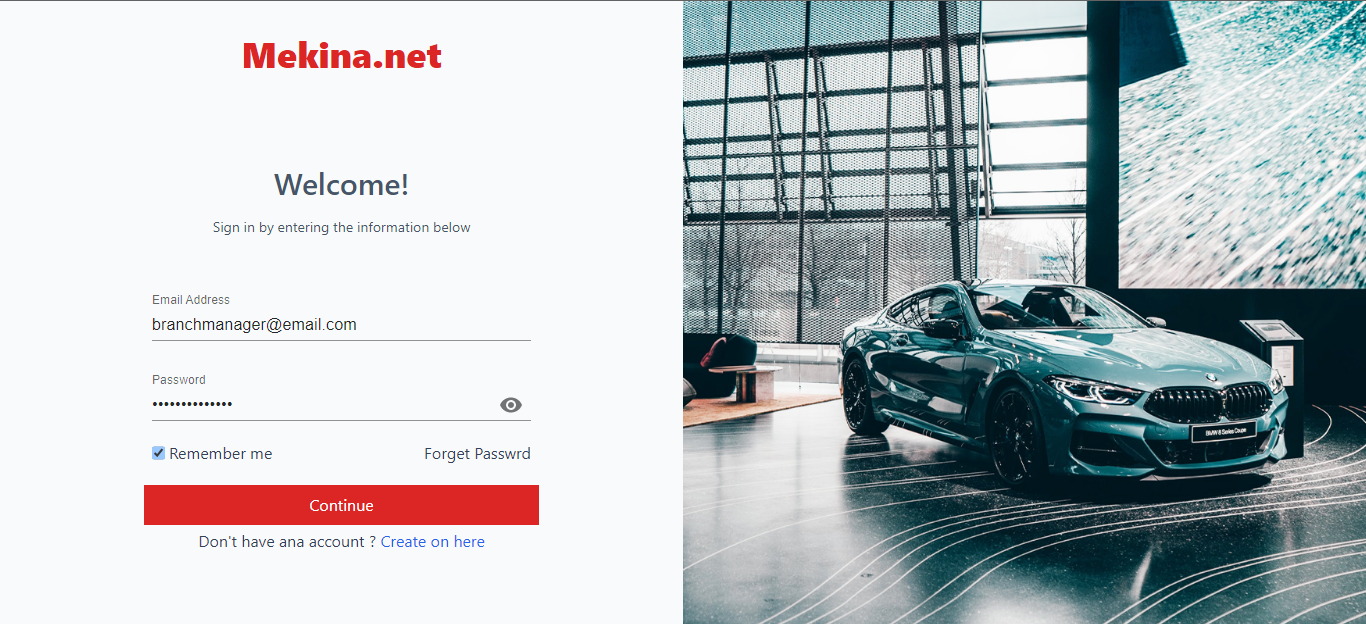
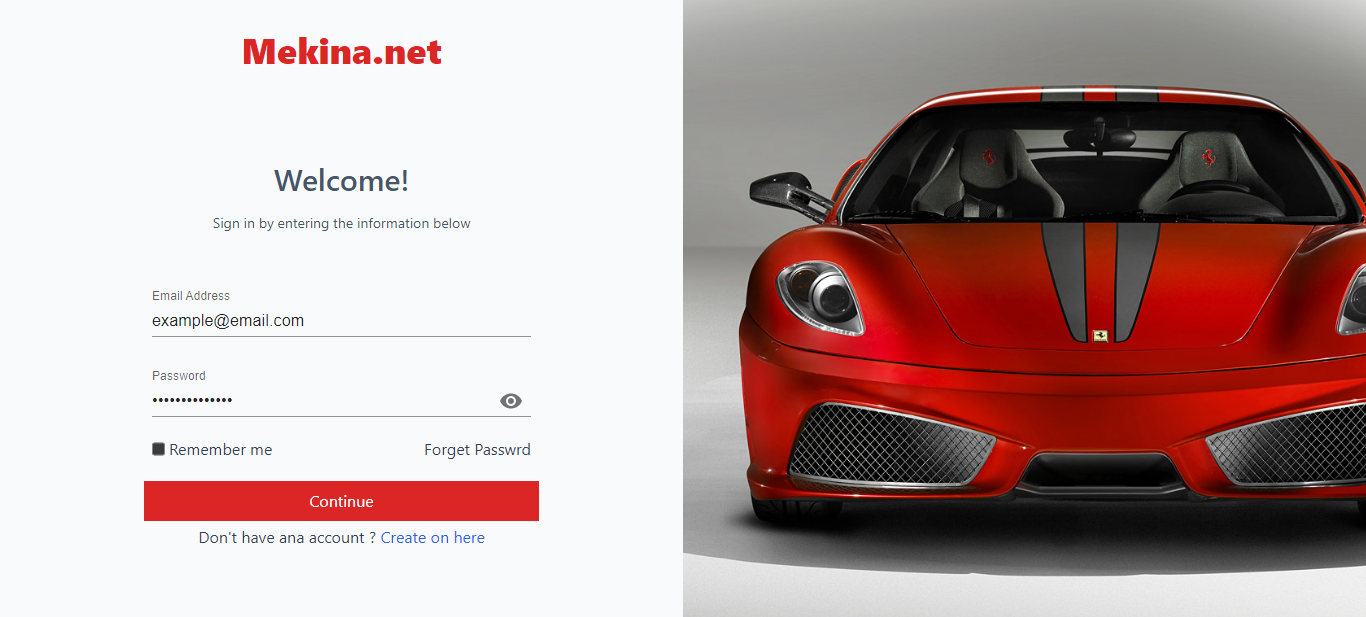
updated next-image and  Readme

diff --git a/components/LoginPage/index.tsx b/components/LoginPage/index.tsx
@@ -89,7 +89,7 @@ function index() {
       </div>
       <div className="relative flex flex-col w-full md:w-1/2 bg-red-300 invisible md:visible">
         <img
-          src="/car.jpg"
+          src="/image-car.jpg"
           alt="car-image"
           className="fixed h-full object-fill"
         />

diff --git a/components/ResetPasswordPage/index.tsx b/components/ResetPasswordPage/index.tsx
@@ -39,7 +39,7 @@ function index() {
       </div>
       <div className="relative flex flex-col w-full md:w-1/2 bg-red-300 invisible md:visible">
         <img
-          src="/car.jpg"
+          src="/image-car.jpg"
           alt="car-image"
           className="fixed h-full object-fill"
         />
